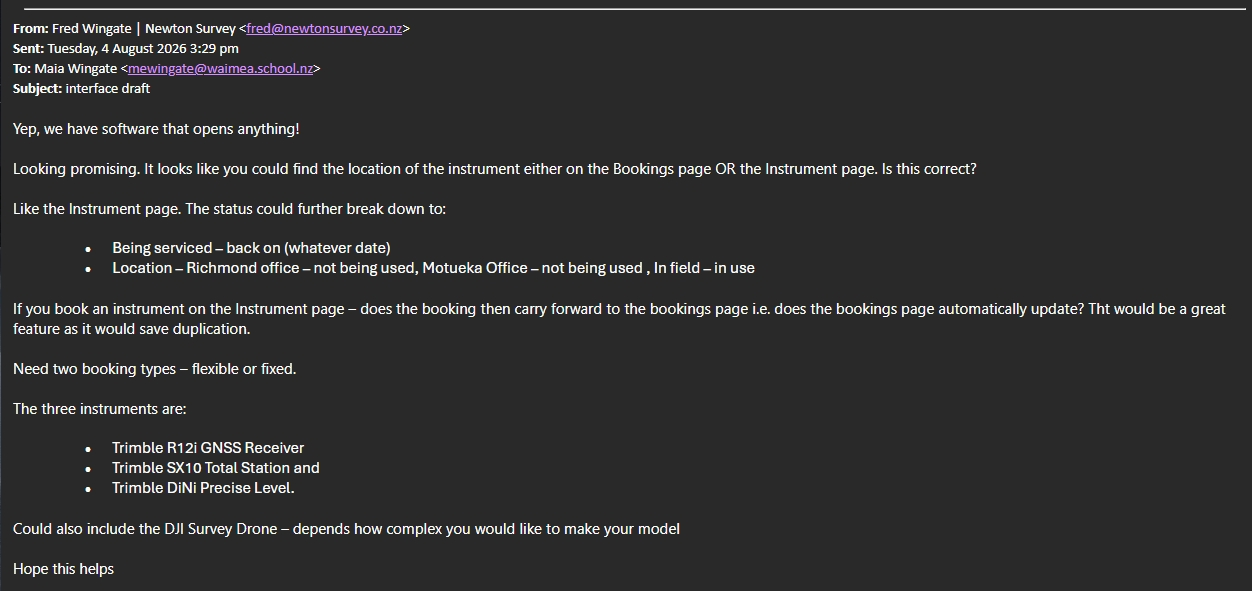
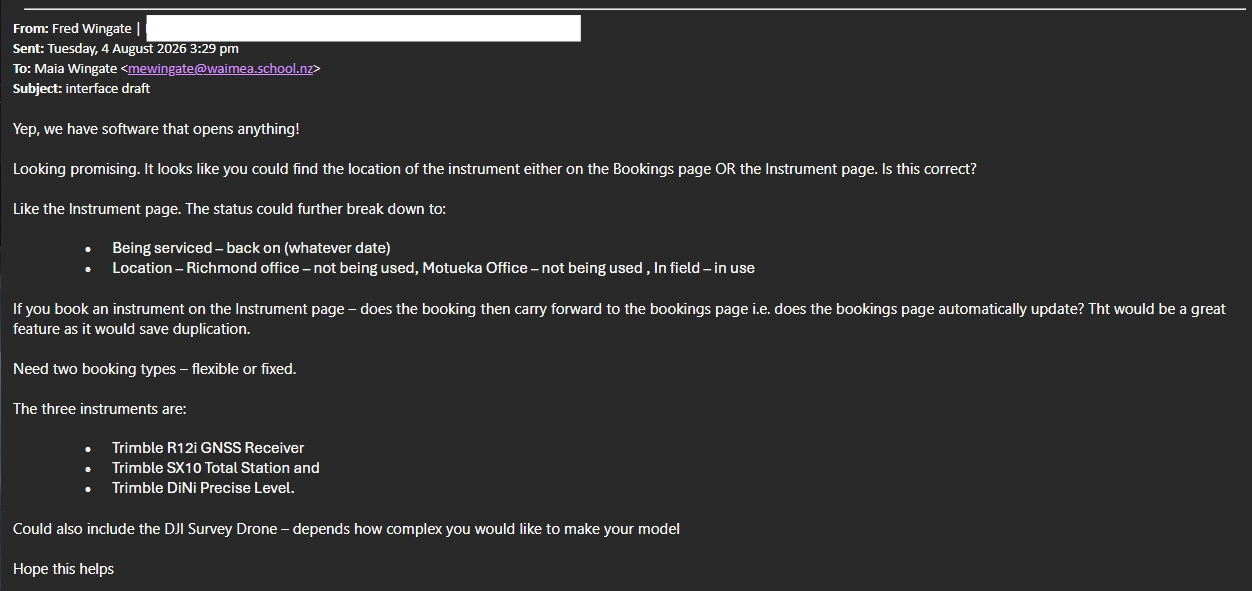
Documentation / Mental Block <:/
ask teacher what i need to do next I guess.
Done in this commit: more documentation. I am a bit anxious as I have gotten tunnel vision while coding this and have entirely neglected the documentation now - at least now the site's live and I can get testing from Dad.
Sigh :/ :(

Changed region(s): [[0.0935, 0.0, 0.4673, 0.0914]]

diff --git a/app/static/css/styles.css b/app/static/css/styles.css
@@ -14,19 +14,20 @@
     --link-col:       var(--palette-col-5);
 
     --back-col:       var(--palette-col-2);
-    --back-col-panel: #FFF;
+    --back-col-panel: #fff;
     --panel-col-2:    #f7eed0;
-    --panel-col-3:   #F1DA8C;
+    --panel-col-3:    #f1da8c;
     --back-col-2:     #f0e9d648;
 
     --border-col:     var(--palette-col-3);
+    --border-col-mid: #6e6e6e;
 
     --secondary-col:  var(--palette-col-4);
     --accent-col:     var(--palette-col-1);
 
     --border:         3px solid var(--border-col);
     --border-small:   2px solid var(--border-col);
-    --border-mid:     3px solid #6e6e6e;
+    --border-mid:     3px solid var(--border-col-mid);
     --border-dark:    3px solid var(--palette-col-1);
     --border-sml-drk: 2px solid var(--palette-col-1);
 
@@ -98,18 +99,6 @@ main > h2 {
     text-align: var(--alignment);
     font-size: 2rem;
     margin-block: 2rem;
-}
-
-/* Footer -------------------------------------------------------*/
-footer{
-    display: flex;
-    min-width: none;
-    
-    padding: var(--padding-sml);
-    background-color: var(--back-col);
-    font-size: 120%;
-    position: fixed;
-    bottom: 0;
 }
 
 

diff --git a/docs/evidence/sprint-2-database.md b/docs/evidence/sprint-2-database.md
@@ -25,21 +25,19 @@ Implement the database, populated with test data. Create queries that retrieve t
 
 ### Changes / Improvements
 
-I still couldn't get the images to work so I just removed that function. I also added a whole booking-start & booking-end thing after this gif was recorded.
+I still couldn't get the images to work so I just removed that function. I also added a whole booking-start & booking-end thing after this gif was recorded. Status ended up being a check in/out function
 
 ![Updated bookings table](screenshots/tables-updated.png)
 
-## Testing FEATURE NAME HERE
+## Testing Images :(
 
-Replace this text with notes about what you are testing, how you tested it, and the outcome of the testing
-
-**PLACE SCREENSHOTS AND/OR ANIMATED GIFS OF THE TESTING HERE**
+kept trying again and again to recreate from the guides the imaging function but have had no success so far. Stopped trying- the website still looks good I suppose
 
 ### Changes / Improvements
 
-Replace this text with notes any improvements you made as a result of the testing.
+Removed the nonfunctional image routes and references.
 
-**PLACE SCREENSHOTS AND/OR ANIMATED GIFS OF THE IMPROVED SYSTEM HERE**
+!['after'](screenshots/image-removed.png)
 
 
 ## Testing FEATURE NAME HERE
@@ -60,5 +58,5 @@ Replace this text with notes any improvements you made as a result of the testin
 
 ## Sprint Review
 
-Replace this text with a statement about how the sprint has moved the project forward - key success point, any things that didn't go so well, etc.
+Welp, I now have a base from which to work further
 

diff --git a/docs/evidence/sprint-3-mvp.md b/docs/evidence/sprint-3-mvp.md
@@ -13,16 +13,18 @@ Continue to develop the web application to the point that it provides all key fu
       
 - Develop SQL database queries to:
     - Add a new booking
-    - Etc.
+    - Edit booking
+    - Edit Status / checkin
 
 
-## Testing FEATURE NAME HERE
+## Testing 
+
+Finally able to host my website, I sent my dad a link to get his feedback.
+![email screenshot of link](screenshots/sent-render.png)
 
 Replace this text with notes about what you are testing, how you tested it, and the outcome of the testing
 
 **PLACE SCREENSHOTS AND/OR ANIMATED GIFS OF THE TESTING HERE**
-
-![Placeholder](screenshots/placeholder.png)
 
 ### Changes / Improvements
 
@@ -58,7 +60,6 @@ Replace this text with notes any improvements you made as a result of the testin
 
 
 ## ETC...
-
 
 ## Sprint Review
 
